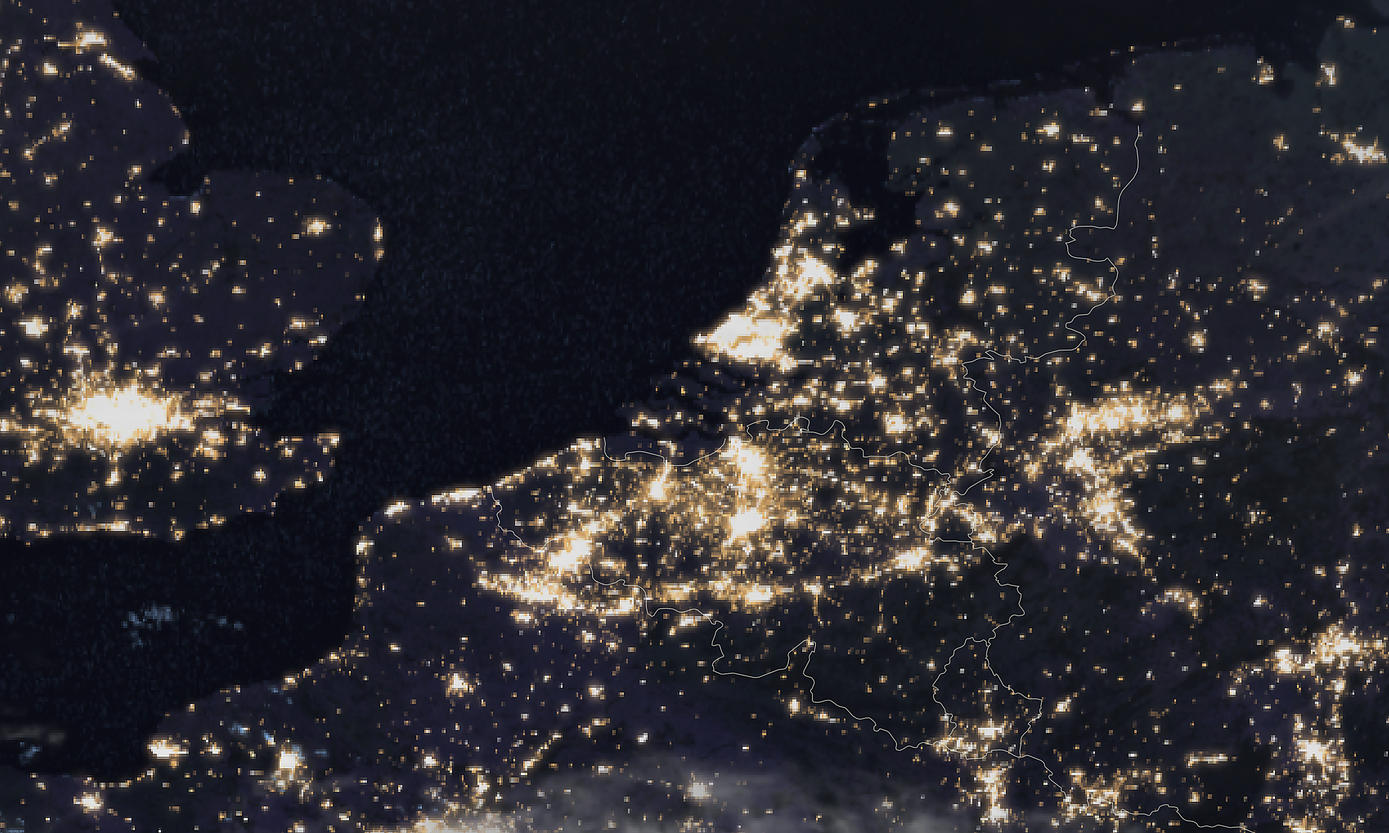
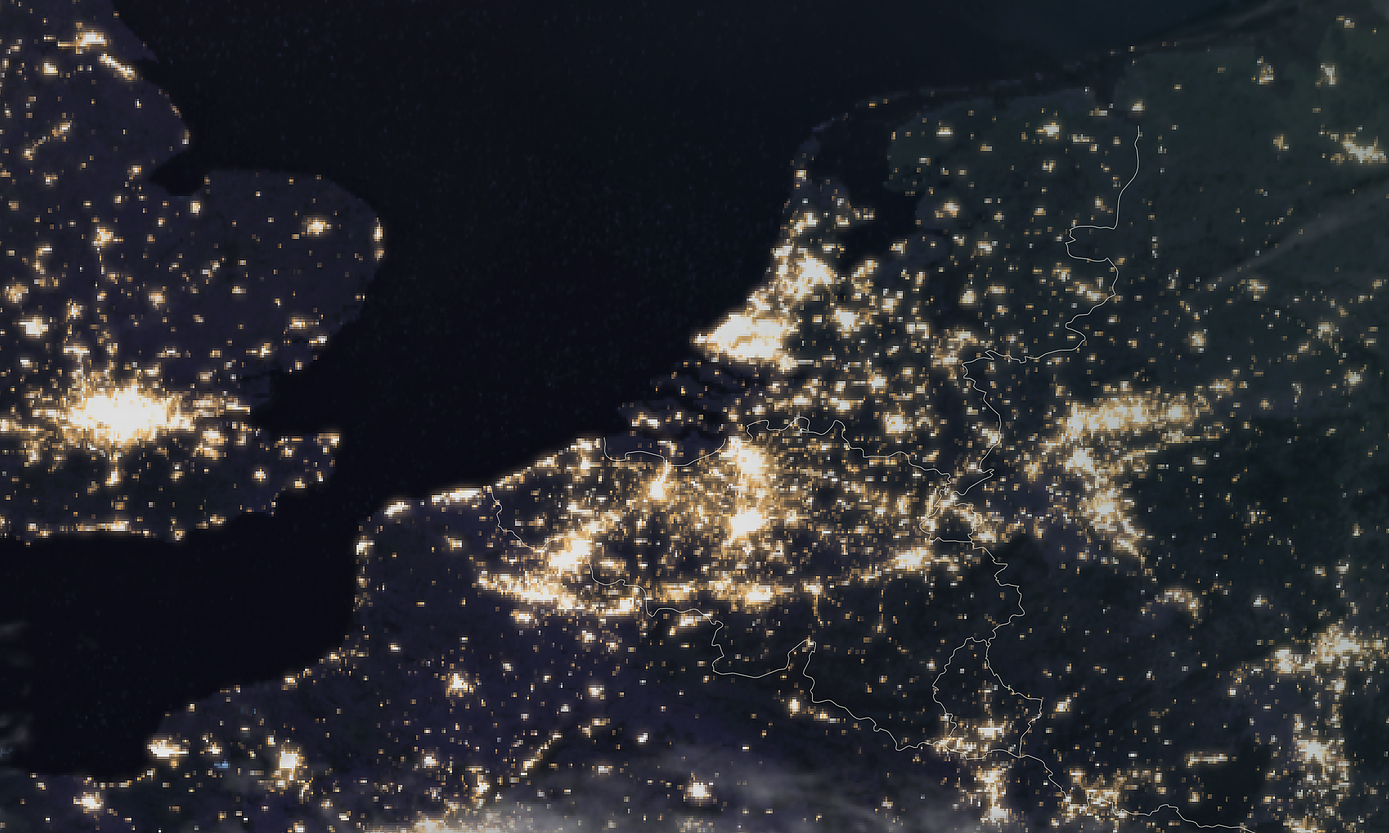
MTG Benelux satellietbeeld update 2026-04-29 07:00

diff --git a/mtg_benelux_meta.js b/mtg_benelux_meta.js
@@ -1,2 +1,2 @@
 const MTG_BENELUX_PRODUCT = "mtg_fd:rgb_geocolour";
-const MTG_BENELUX_TIJD = "2026-04-29T04:20:00Z";
+const MTG_BENELUX_TIJD = "2026-04-29T04:40:00Z";
